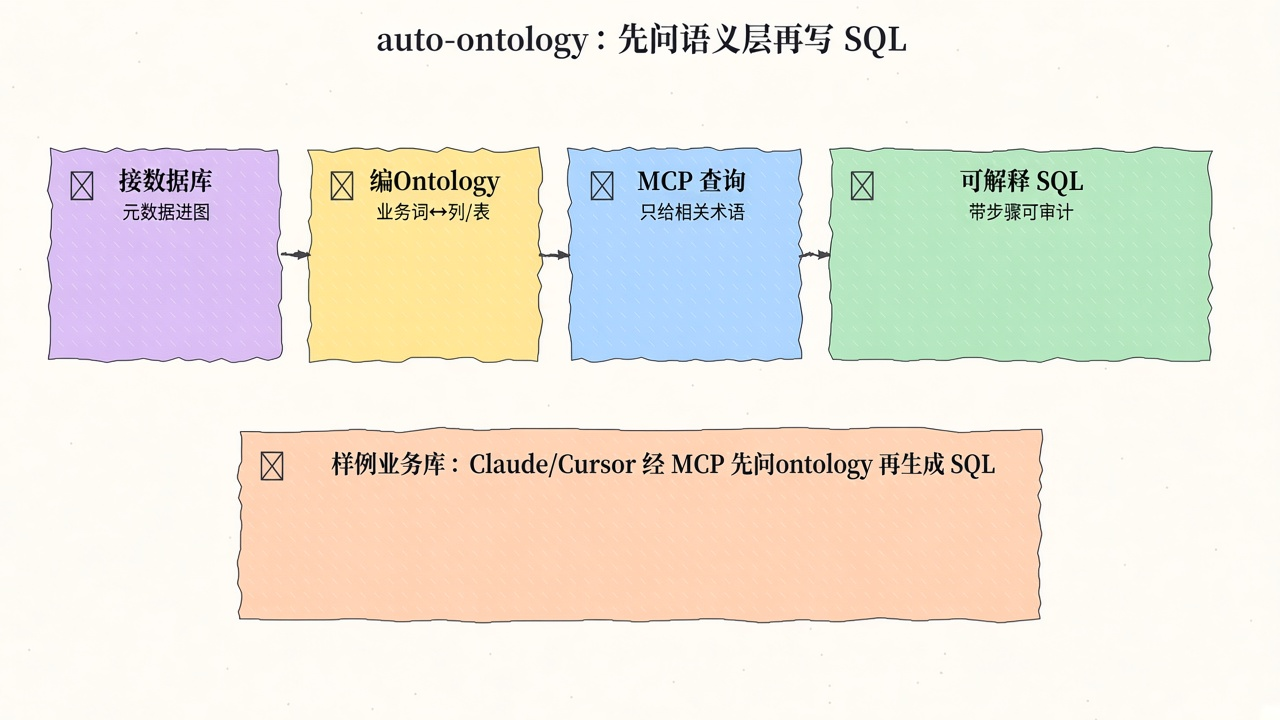
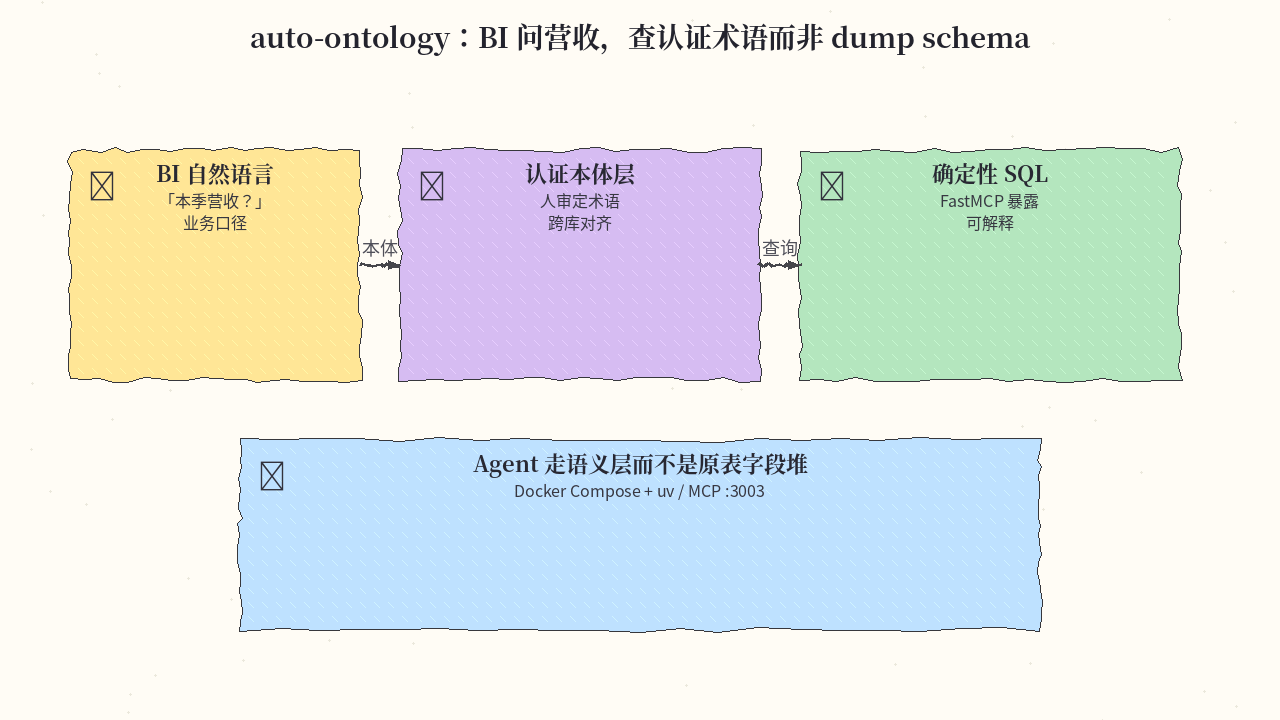
content(github): 2026-11-09 daily

diff --git a/content/github/2026-11-09 daily.md b/content/github/2026-11-09 daily.md
@@ -1,0 +1,180 @@
+---
+bot: github-daily
+title: 2026-11-09 GitHub 日报
+date: 2026-11-09
+source: grok-bot
+---
+
+# 2026-11-09 GitHub 日报
+
+今日七条围绕「agent 的手与眼」：浏览器 CLI、设计系统、长上下文压缩、本体层 SQL、本机 AWS 模拟、爬虫框架、Linux 控 iPhone。
+
+## 1. vercel-labs/agent-browser — a11y 快照驱动的浏览器自动化 CLI
+
+**介绍**  
+agent-browser 是给 AI agent 用的浏览器自动化 CLI（Rust 原生）：`snapshot` 返回带 `@e` 引用的紧凑无障碍文本，再按 ref 点击/填表，最后 `get url` 等做校验。和 agent-desktop 同门；可装 discovery skill，也可 `agent-browser mcp`。约 47.7k★。
+
+**用法**  
+仓库：[github.com/vercel-labs/agent-browser](https://github.com/vercel-labs/agent-browser)。文档：[agent-browser.dev](https://agent-browser.dev)。
+
+```bash
+npm i -g agent-browser && agent-browser install
+# 或: brew install agent-browser && agent-browser install
+npx skills add vercel-labs/agent-browser
+agent-browser mcp   # 可选 MCP
+agent-browser open https://staging.example.com
+agent-browser snapshot -i
+agent-browser click @e3
+agent-browser get url
+```
+
+**应用场景**  
+Agent 打开预发站：snapshot 给出 `@e` refs，点登录、填表，再核 URL 是否进仪表盘。
+
+![agent-browser 应用场景示意](./assets/2026-11-09/agent-browser.png)
+
+**推荐学习程度**：入门
+
+---
+
+## 2. meta/astryx — Meta 开源、agent-ready 设计系统（beta）
+
+**介绍**  
+Astryx 是 Meta 开源设计系统（beta）：React 19 + StyleX，150+ 无障碍组件，CLI/文档按 agent 可读方式组织，主题可换。站：[astryx.atmeta.com](https://astryx.atmeta.com)。约 17k★。
+
+**用法**  
+仓库：[github.com/meta/astryx](https://github.com/meta/astryx)。
+
+```bash
+npm i @astryxdesign/core @astryxdesign/theme-neutral @stylexjs/stylex
+npm i -D @astryxdesign/cli
+# 可选全局 CLI，方便任意目录 / coding agent 调用文档：
+npm i -g @astryxdesign/cli
+astryx docs global/project-global-or-both
+```
+
+**应用场景**  
+设计师与 agent 共用同一套 CLI 文档，一起搭设置页：组件、间距、a11y 默认都对齐。
+
+![astryx 应用场景示意](./assets/2026-11-09/astryx.png)
+
+**推荐学习程度**：进阶
+
+---
+
+## 3. ranxianglei/billion-context — 月级长会话的上下文压缩插件
+
+**介绍**  
+billion-context 把超长单会话压进小窗口：宣称 100K 上下文够用、约 5× 更少 token，面向月级项目聊天。可挂 Claude Code / Codex / OpenCode 等。约 5.2k★。
+
+**用法**  
+仓库：[github.com/ranxianglei/billion-context](https://github.com/ranxianglei/billion-context)。
+
+```bash
+npm i -g billion-context --prefix=~/.local
+# 按仓库说明接到你的 coding agent / 插件目录后开长会话
+```
+
+**应用场景**  
+一个月的项目聊天被压进小窗口，agent 仍能回忆关键决策与取舍，而不是每次把整段历史塞回。
+
+![billion-context 应用场景示意](./assets/2026-11-09/billion-context.png)
+
+**推荐学习程度**：进阶
+
+---
+
+## 4. NVIDIA/auto-ontology — 给 text-to-SQL agent 的本体层
+
+**介绍**  
+Auto Ontology 在数据库之上建语义/图推理层：人审定术语与口径，再经 FastMCP / CLI / API 暴露给任意 agent harness，减少「乱 dump schema」导致的错数。支持 Docker Compose 与 uv；可 Helm。约 10.4k★。
+
+**用法**  
+仓库：[github.com/NVIDIA/auto-ontology](https://github.com/NVIDIA/auto-ontology)。Quickstart 用 Wide World Importers 样例库。
+
+```bash
+# 见仓库 Quickstart：先起 Postgres，再 compose 起服务
+docker compose up -d --build
+# MCP（示例）：uvx --from "git+https://github.com/NVIDIA/auto-ontology.git#subdirectory=mcp" auto-ontology-mcp
+# 或指向 http://localhost:3003/mcp
+```
+
+**应用场景**  
+BI 聊天问「本季营收」：agent 查已认证的本体术语与度量，而不是把原始表结构一股脑塞进 prompt。
+
+![auto-ontology 应用场景示意](./assets/2026-11-09/auto-ontology.png)
+
+**推荐学习程度**：深度
+
+---
+
+## 5. floci-io/floci — 免费本机 AWS 模拟器（LocalStack 继任 vibe）
+
+**介绍**  
+floci 给本机 AWS 形 API：默认 `localhost:4566`，无账号、无 auth token、无付费门闸，MIT，镜像体积极小。Lambda/RDS 等关键服务走真 Docker 容器。站：[floci.io/floci](https://floci.io/floci/)。约 31k★。
+
+**用法**  
+仓库：[github.com/floci-io/floci](https://github.com/floci-io/floci)。
+
+```bash
+# compose.yaml 里把 4566:4566 映射后：
+docker compose up
+export AWS_ENDPOINT_URL=http://localhost:4566
+# 也可用 Releases 里的 standalone floci-aws 二进制（无 Docker）
+```
+
+**应用场景**  
+CI 把 SDK/CLI 指到 floci：本地跑 Lambda/RDS 相关集成测，不烧云账单。
+
+![floci 应用场景示意](./assets/2026-11-09/floci.png)
+
+**推荐学习程度**：入门
+
+---
+
+## 6. D4Vinci/Scrapling — Python 爬虫框架 + MCP / Agent Skill
+
+**介绍**  
+Scrapling 把 HTTP、隐身浏览器、解析、并发爬取收进一个库；可处理 Turnstile 等挑战，导出 Markdown/JSON；自带 MCP 与 Agent Skill，方便 coding agent 直接用。约 100k★。
+
+**用法**  
+仓库：[github.com/D4Vinci/Scrapling](https://github.com/D4Vinci/Scrapling)。文档：[scrapling.readthedocs.io](https://scrapling.readthedocs.io/en/latest/)。
+
+```bash
+pip install "scrapling[all]"   # 或 scrapling[ai] / [fetchers] / [shell]
+# MCP / Agent Skill 见文档 ai/mcp-server 与 ai/agent-skill
+```
+
+**应用场景**  
+Agent 爬一整站文档，吐出干净 Markdown，直接进 RAG 切块与向量库。
+
+![scrapling 应用场景示意](./assets/2026-11-09/scrapling.png)
+
+**推荐学习程度**：进阶
+
+---
+
+## 7. lxe/phoneuse — Linux 上看并操作未越狱 iPhone
+
+**介绍**  
+phoneuse（2026-11-07 新建）：Linux PC 经 AirPlay 镜像入、蓝牙 HID 鼠标/键盘出，操控未修改的 iPhone；另有 CLI 与 agent skill。约 453★。
+
+**用法**  
+仓库：[github.com/lxe/phoneuse](https://github.com/lxe/phoneuse)。
+
+```bash
+git clone https://github.com/lxe/phoneuse.git ~/phoneuse
+ln -s ~/phoneuse/bin/phoneuse ~/.local/bin/phoneuse
+phoneuse install   # needs sudo：装 HID daemon
+phoneuse up
+phoneuse cursor on
+```
+
+**应用场景**  
+Linux 桌面 agent 镜像 iPhone，点完一段移动端流程——无需越狱。
+
+![phoneuse 应用场景示意](./assets/2026-11-09/phoneuse.png)
+
+**推荐学习程度**：进阶
+
+---
